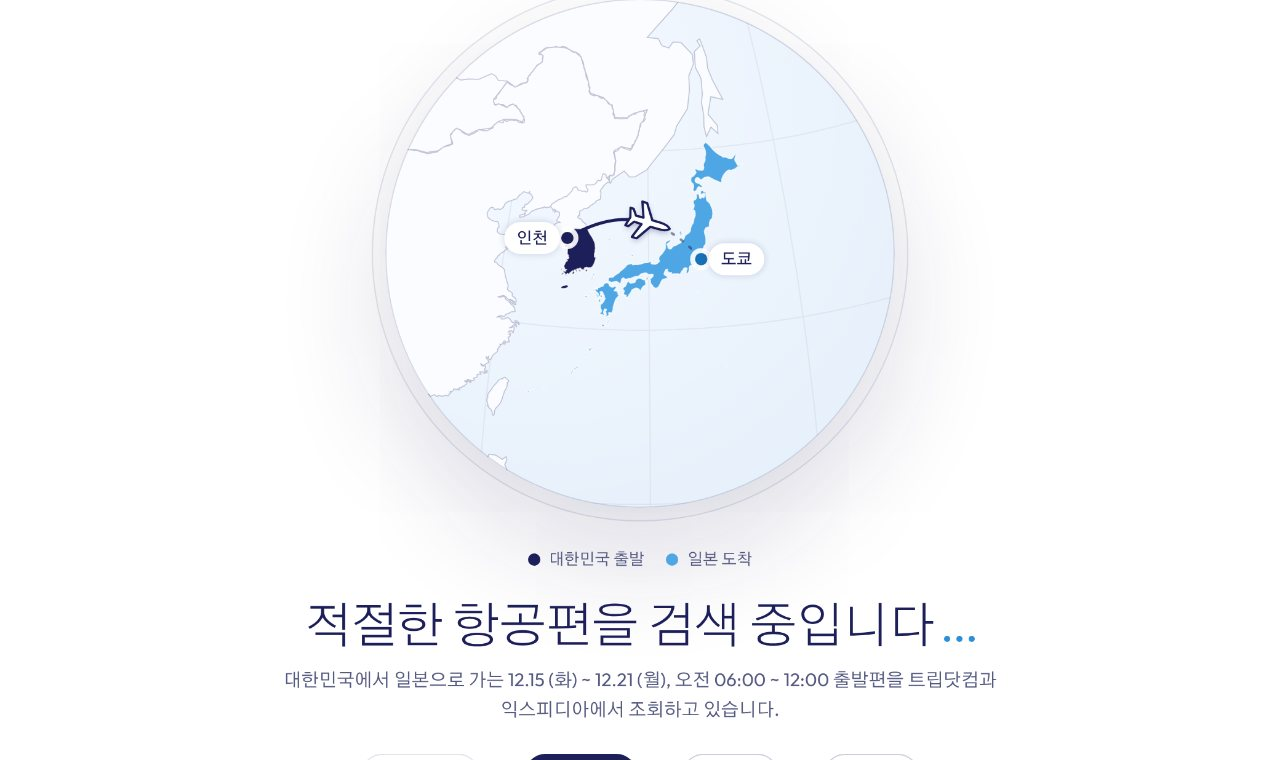
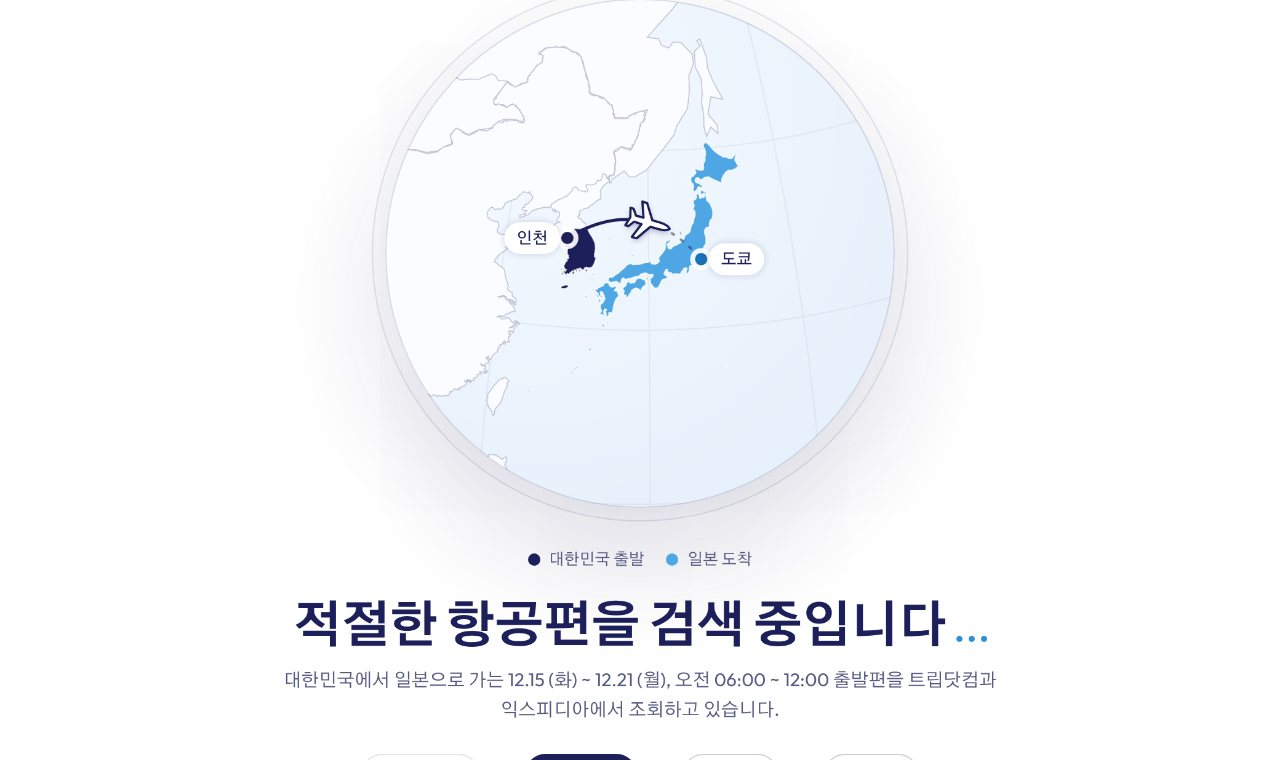
docs: 강조하는 글자를 굵게 변경
- 워드마크 · 제목 · 큰 숫자 · 요금 · 시각처럼 강조하는 글자를 가는 굵기(200~300)에서 굵게(700)로 변경
- 굵기를 400 · 500 · 700 세 가지로 정리하고 강조 굵기를 --fw-bold 토큰 하나로 묶음
- 글꼴 요청에서 쓰지 않는 굵기를 뺌
- 이용 방법 그림, 한눈에 보기 이미지, 디자인 기준 문서 갱신

Changed region(s): [[0.2188, 0.7868, 0.75, 0.8474]]

diff --git a/docs/design/src/screens.css b/docs/design/src/screens.css
@@ -34,10 +34,10 @@
 /* 소개: 큰 워드마크(왼쪽 가운데) + 하늘색 문장(오른쪽 아래) */
 .hero-t { position: absolute; left: 0; top: 0; right: 0; bottom: 0; justify-content: center; gap: 4svh; padding: 12svh 4.2vw 6svh; opacity: var(--pt); transform: translateY(calc((1 - var(--pt)) * 36px)); pointer-events: none; }
 .hero-wm { align-self: flex-start; color: var(--n-900); }
-.wm-b { font-size: clamp(64px, 14.2vw, 232px); line-height: 1; font-weight: 200; letter-spacing: .012em; margin-left: -.05em; white-space: nowrap; }
-.wm-s { font-size: clamp(15px, 1.7vw, 26px); line-height: 1.5; font-weight: 300; letter-spacing: .02em; padding-left: .1em; }
+.wm-b { font-size: clamp(64px, 14.2vw, 232px); line-height: 1; font-weight: var(--fw-bold); letter-spacing: -.01em; margin-left: -.04em; white-space: nowrap; }
+.wm-s { font-size: clamp(15px, 1.7vw, 26px); line-height: 1.5; font-weight: 400; letter-spacing: .02em; padding-left: .1em; }
 .hero-cp { align-self: flex-end; width: min(44vw, 560px); gap: 12px; margin-right: 6vw; }
-.hero-h { font-size: clamp(24px, 2.6vw, 40px); line-height: 1.28; font-weight: 400; letter-spacing: -.01em; color: var(--b-700); }
+.hero-h { font-size: clamp(24px, 2.6vw, 40px); line-height: 1.28; font-weight: var(--fw-bold); letter-spacing: -.01em; color: var(--b-700); }
 .hero-d { font-size: 15px; line-height: 24px; color: var(--b-800); }
 
 /* 숫자: 파란 하늘 위 계단식 줄 */
@@ -50,8 +50,8 @@
 .st-row { flex: 1 1 0; flex-direction: row; align-items: stretch; padding-left: calc(var(--i) * 15.5%); border-top: 1px solid var(--w-50); }
 .st-cell { flex-direction: row; align-items: center; gap: 22px; min-width: 34%; padding: 0 34px 0 30px; border-right: 1px solid var(--w-50); }
 .st-row:not(:first-child) .st-cell { border-left: 1px solid var(--w-50); }
-.st-num { display: flex; flex-direction: row; align-items: baseline; flex: none; font-size: clamp(48px, 7.6vw, 112px); line-height: 1; font-weight: 300; letter-spacing: -.02em; white-space: nowrap; font-variant-numeric: tabular-nums; }
-.st-num .u { font-size: .42em; font-weight: 400; margin-left: .12em; letter-spacing: 0; }
+.st-num { display: flex; flex-direction: row; align-items: baseline; flex: none; font-size: clamp(48px, 7.6vw, 112px); line-height: 1; font-weight: var(--fw-bold); letter-spacing: -.02em; white-space: nowrap; font-variant-numeric: tabular-nums; }
+.st-num .u { font-size: .42em; font-weight: 500; margin-left: .12em; letter-spacing: 0; }
 .st-num .u.pre { margin: 0 .2em 0 0; }
 .st-lb { gap: 2px; }
 .st-lb .l { font-size: 15px; line-height: 22px; font-weight: 500; }
@@ -69,7 +69,7 @@
 .how-img { flex: 1.5 1 0; padding: 16px; justify-content: center; }
 .how-img img { width: 100%; height: auto; aspect-ratio: 1280 / 760; border-radius: 22px; box-shadow: inset 0 0 0 1px var(--line); background: var(--n-100); }
 .how-tx { flex: 1 1 0; justify-content: center; gap: 14px; padding: 40px 48px 40px 24px; }
-.how-tx::before { content: counter(step, decimal-leading-zero); font-size: 76px; line-height: 1; font-weight: 200; color: var(--sky); letter-spacing: -.02em; font-variant-numeric: tabular-nums; }
+.how-tx::before { content: counter(step, decimal-leading-zero); font-size: 76px; line-height: 1; font-weight: var(--fw-bold); color: var(--sky); letter-spacing: -.02em; font-variant-numeric: tabular-nums; }
 .js .how-car .btn.rb { display: flex; }
 .js .how-box { display: grid; gap: 0; border: 1px solid var(--line); border-radius: 36px; background: var(--surface); overflow: hidden; }
 .js .how-sl { grid-area: 1 / 1; border: 0; border-radius: 0; opacity: 0; visibility: hidden; transform: translateX(56px); pointer-events: none; transition: opacity .45s var(--ease), transform .65s var(--ease), visibility 0s .65s; }
@@ -104,7 +104,7 @@
 .svc-pane[data-i="1"] { order: 3; } .svc-d[data-i="1"] { order: 4; }
 .svc-pane[data-i="2"] { order: 5; } .svc-d[data-i="2"] { order: 6; }
 .svc-pane + .svc-pane { margin-top: 56px; }
-.svc-q { font-size: clamp(30px, 4.6vw, 64px); line-height: 1.16; font-weight: 300; letter-spacing: -.02em; text-align: center; text-shadow: 0 2px 30px var(--d-35); padding-bottom: 10px; }
+.svc-q { font-size: clamp(30px, 4.6vw, 64px); line-height: 1.16; font-weight: var(--fw-bold); letter-spacing: -.02em; text-align: center; text-shadow: 0 2px 30px var(--d-35); padding-bottom: 10px; }
 .svc-k { display: none; align-self: center; font-size: 13px; line-height: 20px; }
 .js .svc-k { display: block; }
 .svc-d { width: 100%; max-width: 620px; font-size: 14px; line-height: 22px; text-align: center; }
@@ -113,7 +113,7 @@
 .js .lp-svc .hold { position: sticky; height: 100svh; padding: 0; overflow: hidden; }
 .js .mq { display: flex; position: absolute; z-index: 2; left: 0; right: 0; top: 50%; transform: translateY(-50%); overflow: hidden; opacity: calc(1 - var(--g) * 1.7); }
 .mq-t { flex-direction: row; flex: none; width: max-content; animation: mq 36s linear infinite; }
-.mq-t span { flex: none; padding-right: .6em; font-size: clamp(44px, 8.4vw, 132px); line-height: 1.1; font-weight: 300; letter-spacing: -.01em; color: var(--n-900); white-space: nowrap; }
+.mq-t span { flex: none; padding-right: .6em; font-size: clamp(44px, 8.4vw, 132px); line-height: 1.1; font-weight: var(--fw-bold); letter-spacing: -.01em; color: var(--n-900); white-space: nowrap; }
 @keyframes mq { to { transform: translateX(-33.333%); } }
 /* 흐르는 글자는 마우스를 올리면 멈추고, 오른쪽 아래 단추로도 멈출 수 있다 */
 .js .mq:hover .mq-t, .js .lp-svc.mq-paused .mq-t { animation-play-state: paused; }
@@ -154,13 +154,13 @@
 .lp-ftr { padding: 0 var(--frame) var(--frame); }
 .ftr-win { border-radius: var(--r-lg); background: var(--n-900); color: var(--n-50); padding: 72px 4.2vw 26px; gap: 56px; --focus: var(--n-0); --focus-gap: var(--n-900); }
 .ftr-t { flex-direction: row; align-items: flex-end; justify-content: space-between; gap: 40px; }
-.ftr-h { max-width: 880px; font-size: clamp(26px, 3.5vw, 50px); line-height: 1.3; font-weight: 300; letter-spacing: -.015em; text-wrap: balance; }
+.ftr-h { max-width: 880px; font-size: clamp(26px, 3.5vw, 50px); line-height: 1.3; font-weight: var(--fw-bold); letter-spacing: -.015em; text-wrap: balance; }
 .ftr-t .btn { border-color: transparent; }
 .ftr-g { flex-direction: row; align-items: flex-start; gap: 48px; padding-top: 32px; border-top: 1px solid var(--w-18); }
 .ftr-c { flex: 1 1 0; gap: 8px; font-size: 15px; line-height: 24px; }
 .ftr-c:first-child { flex: 1.6 1 0; }
 .ftr-c .k { font-size: 13px; line-height: 20px; color: var(--b-300); padding-bottom: 4px; }
-.ftr-c .v { font-size: 22px; line-height: 30px; font-weight: 300; }
+.ftr-c .v { font-size: 22px; line-height: 30px; font-weight: var(--fw-bold); }
 .ftr-c .d { font-size: 13px; line-height: 20px; color: var(--w-78); max-width: 420px; }
 .ftr-c a { align-self: flex-start; text-decoration: underline; text-underline-offset: 3px; }
 .ftr-src { flex-direction: row; flex-wrap: wrap; gap: 8px; }
@@ -258,7 +258,7 @@
 .auth-win .lyr { z-index: -1; background-image: var(--scrim-auth), url(assets/bg/hero.jpg); background-position: 50% 40%; }
 .auth-top { flex-direction: row; }
 .auth-btm { gap: 22px; }
-.auth-h { font-size: clamp(26px, 2.7vw, 40px); line-height: 1.28; font-weight: 300; letter-spacing: -.015em; }
+.auth-h { font-size: clamp(26px, 2.7vw, 40px); line-height: 1.28; font-weight: var(--fw-bold); letter-spacing: -.015em; }
 /* 적어 둔 문장 세 개: 사진 위 유리 판. 흰 글자가 읽히도록 남색 막을 깐다 */
 .rc { max-width: 580px; padding: 4px 20px 14px; border-radius: 24px; background: var(--d-28); box-shadow: inset 0 0 0 1px var(--w-34); -webkit-backdrop-filter: blur(16px); backdrop-filter: blur(16px); }
 .rc-k { padding: 12px 0 8px; font-size: 12px; line-height: 18px; }
@@ -288,7 +288,7 @@
 .home-win .lyr { z-index: -1; background-image: var(--scrim-stage), url(assets/bg/flight.jpg); }
 .home-in { width: 100%; max-width: 820px; gap: 30px; }
 .home-hd { align-items: center; gap: 10px; text-align: center; }
-.home-h { font-size: clamp(30px, 4vw, 56px); line-height: 1.18; font-weight: 300; letter-spacing: -.02em; text-shadow: 0 2px 30px var(--d-35); }
+.home-h { font-size: clamp(30px, 4vw, 56px); line-height: 1.18; font-weight: var(--fw-bold); letter-spacing: -.02em; text-shadow: 0 2px 30px var(--d-35); }
 .home-p { font-size: 15px; line-height: 24px; }
 .home-f { gap: 14px; }
 .home-r { gap: 8px; }
@@ -315,7 +315,7 @@ body.pg-srch { min-height: 100svh; }
 body[data-stage="flight"] .srch-t[data-st="flight"], body[data-stage="stay"] .srch-t[data-st="stay"], body[data-stage="done"] .srch-t[data-st="done"] { display: flex; }
 .js .srch-t { display: flex; opacity: 0; visibility: hidden; transform: translateY(14px); transition: opacity .45s var(--ease), transform .6s var(--ease), visibility 0s .6s; }
 .js body[data-stage="flight"] .srch-t[data-st="flight"], .js body[data-stage="stay"] .srch-t[data-st="stay"], .js body[data-stage="done"] .srch-t[data-st="done"] { opacity: 1; visibility: visible; transform: none; transition-delay: 0s; }
-.srch-h { font-size: clamp(26px, 3.2vw, 40px); line-height: 1.25; font-weight: 300; letter-spacing: -.015em; }
+.srch-h { font-size: clamp(26px, 3.2vw, 40px); line-height: 1.25; font-weight: var(--fw-bold); letter-spacing: -.015em; }
 .dots { display: inline-flex; flex-direction: row; gap: 5px; padding-left: 8px; }
 .dots span { display: flex; width: 5px; height: 5px; border-radius: 3px; background: var(--sky); animation: blink 1.2s ease-in-out infinite; }
 .dots span:nth-child(2) { animation-delay: .18s; } .dots span:nth-child(3) { animation-delay: .36s; }
@@ -359,7 +359,7 @@ body[data-stage="flight"] .sp[data-sp="flight"] b, body[data-stage="stay"] .sp[d
 .fo-r { padding-top: 18px; padding-bottom: 8px; cursor: pointer; }
 .fo-k { position: relative; display: flex; width: 20px; flex: none; border-radius: 10px; cursor: pointer; }
 .fo-a { width: 150px; flex: none; gap: 3px; }
-.al { object-fit: contain; align-self: flex-start; margin-bottom: 3px; }
+.al { object-fit: contain; align-self: flex-start; margin-bottom: 4px; }
 .fo-a > .row { flex-wrap: wrap; row-gap: 4px; }
 .fo-a .t-h3 { white-space: nowrap; }
 .fo-l { display: flex; flex: 1 1 0; flex-direction: row; align-items: flex-start; gap: 28px; }
@@ -368,7 +368,7 @@ body[data-stage="flight"] .sp[data-sp="flight"] b, body[data-stage="stay"] .sp[d
 .lg2-k { display: flex; flex-direction: row; align-items: center; gap: 8px; font-size: 12px; line-height: 18px; color: var(--tx-2); }
 .lg2-t { flex-direction: row; align-items: center; gap: 10px; }
 .lg2-t .e { flex: none; gap: 0; }
-.lg2-t .e b { font-size: 22px; line-height: 28px; font-weight: 400; letter-spacing: -.01em; }
+.lg2-t .e b { font-size: 22px; line-height: 28px; font-weight: var(--fw-bold); letter-spacing: -.01em; }
 .lg2-t .e span { font-size: 12px; line-height: 16px; color: var(--tx-3); }
 .lg2-t .m { flex: 1 1 0; flex-direction: row; align-items: center; gap: 8px; }
 .lg2-t .m i { display: flex; flex: 1 1 0; height: 1px; background: var(--line-strong); }
@@ -405,7 +405,7 @@ body[data-stage="flight"] .sp[data-sp="flight"] b, body[data-stage="stay"] .sp[d
 .sl .k { width: 46px; flex: none; font-size: 13px; line-height: 20px; color: var(--tx-3); }
 .ver { flex-direction: row; align-items: flex-start; gap: 10px; padding: 10px 0; border-top: 1px solid var(--line); font-size: 13px; line-height: 20px; }
 .ver.first { border-top: 0; padding-top: 0; }
-.ver .v { width: 22px; flex: none; font-weight: 600; }
+.ver .v { width: 22px; flex: none; font-weight: var(--fw-bold); }
 
 /* ───────── 09 숙소 위치와 추천 장소 ───────── */
 .map { position: relative; border-radius: 18px; overflow: hidden; box-shadow: inset 0 0 0 1px var(--line); }
@@ -415,7 +415,7 @@ body[data-stage="flight"] .sp[data-sp="flight"] b, body[data-stage="stay"] .sp[d
 .pin {
   position: absolute; width: 26px; height: 26px; align-items: center; justify-content: center; transform: translate(-50%, -50%);
   border: 2px solid var(--n-900); border-radius: 13px; background: var(--n-0);
-  font-size: 12px; line-height: 16px; font-weight: 600; color: var(--n-900);
+  font-size: 12px; line-height: 16px; font-weight: var(--fw-bold); color: var(--n-900);
 }
 .pin.h { width: 38px; height: 38px; border: 2px solid var(--n-0); border-radius: 19px; background: var(--brand); color: var(--on-photo); }
 .pin-l {
@@ -428,9 +428,9 @@ body[data-stage="flight"] .sp[data-sp="flight"] b, body[data-stage="stay"] .sp[d
 .map-attr { position: absolute; display: flex; right: 0; bottom: 0; padding: 2px 10px 2px 8px; border-radius: 8px 0 0 0; background: var(--w-86); font-size: 11px; line-height: 16px; color: var(--tx-2); }
 .lgd { flex-direction: row; flex-wrap: wrap; align-items: center; gap: 6px 20px; }
 .lg { flex-direction: row; align-items: center; gap: 6px; font-size: 12px; line-height: 18px; color: var(--tx-2); }
-.lg-n { display: flex; align-items: center; justify-content: center; flex: none; height: 20px; padding: 0 7px; border: 1px solid var(--n-700); border-radius: 10px; background: var(--n-0); font-size: 11px; line-height: 16px; font-weight: 600; color: var(--n-900); }
+.lg-n { display: flex; align-items: center; justify-content: center; flex: none; height: 20px; padding: 0 7px; border: 1px solid var(--n-700); border-radius: 10px; background: var(--n-0); font-size: 11px; line-height: 16px; font-weight: var(--fw-bold); color: var(--n-900); }
 .lg-h { display: flex; align-items: center; justify-content: center; flex: none; width: 20px; height: 20px; border-radius: 10px; background: var(--brand); color: var(--on-photo); }
-.pno { display: flex; width: 20px; height: 20px; flex: none; align-items: center; justify-content: center; border: 1px solid var(--n-700); border-radius: 10px; font-size: 11px; line-height: 16px; font-weight: 600; color: var(--n-900); }
+.pno { display: flex; width: 20px; height: 20px; flex: none; align-items: center; justify-content: center; border: 1px solid var(--n-700); border-radius: 10px; font-size: 11px; line-height: 16px; font-weight: var(--fw-bold); color: var(--n-900); }
 /* 장소 · 활동 줄: 사진 | 설명 | 웹 검색으로 찾은 후기(썸네일 + 사이트) */
 .grp-h { flex-direction: row; align-items: center; gap: 10px; min-height: 40px; padding: 0 var(--pad); border-top: 1px solid var(--line); background: var(--surface-sub); }
 .grp-h.first { border-top: 0; }

diff --git a/docs/design/src/tokens.css b/docs/design/src/tokens.css
@@ -1,6 +1,6 @@
 /* Trupass 디자인 토큰 (3차: 하늘 · 흰색 · 인디고)
    - 색: 흰 바탕에 깊은 인디고 글자, 강조는 하늘색 한 가지. 사진과 하늘이 색을 맡는다. 옅은 면과 선은 누런 기 없이 인디고 쪽 중립 톤.
-   - 글꼴: 라틴 · 숫자는 Outfit, 한글은 Gothic A1. 큰 글자는 가늘게(300), 작은 글자는 보통 굵기.
+   - 글꼴: 라틴 · 숫자는 Outfit, 한글은 Gothic A1. 워드마크 · 제목 · 큰 숫자 · 요금처럼 강조하는 글자는 굵게(700), 본문은 보통 굵기(400).
    - 모서리: 넉넉하게. 버튼과 표식은 알약형, 입력 14, 카드 24, 창(사진을 담는 틀) 28.
    - 레이아웃: 화면의 뼈대는 flex(row/column) + gap + padding. 스크롤 연출을 위한 겹침(하늘 · 구름 · 지구본)만 절대 위치를 쓴다.
    - 색 값은 전부 이 블록에 둔다. 다른 파일에서는 토큰만 쓴다. */
@@ -60,6 +60,7 @@
   --focus-gap: var(--n-0);
 
   --font: "Outfit", "Gothic A1", "Apple SD Gothic Neo", "Malgun Gothic", system-ui, sans-serif;
+  --fw-bold: 700;                 /* 강조하는 글자: 워드마크 · 제목 · 큰 숫자 · 요금 · 시각 · 이름. 굵기는 400(본문) · 500(이름표 · 버튼) · 700 세 가지만 쓴다 */
   --r-xs: 6px; --r-sm: 14px; --r-md: 24px; --r-lg: 28px; --r-pill: 999px;
   --e1: 0 6px 24px var(--k-08);
   --e2: 0 24px 64px var(--k-18);
@@ -103,7 +104,7 @@ canvas { display: block; }
 h1, h2, h3, p { font-weight: 400; font-size: inherit; }
 h1, h2, h3 { text-wrap: balance; }
 p { text-wrap: pretty; }
-b, strong { font-weight: 600; }
+b, strong { font-weight: var(--fw-bold); }
 table { border-collapse: collapse; border-spacing: 0; width: 100%; }
 th { font-weight: 400; text-align: left; }
 summary { list-style: none; cursor: pointer; }
@@ -144,16 +145,16 @@ summary::-webkit-details-marker { display: none; }
 .g0 { gap: 0; } .g2 { gap: 2px; } .g4 { gap: 4px; } .g6 { gap: 6px; } .g8 { gap: 8px; } .g10 { gap: 10px; } .g12 { gap: 12px; } .g16 { gap: 16px; }
 .g20 { gap: 20px; } .g24 { gap: 24px; } .g32 { gap: 32px; } .g40 { gap: 40px; } .g48 { gap: 48px; }
 
-/* type scale: 큰 글자는 가늘게 */
-.t-display { font-size: 56px; line-height: 66px; font-weight: 300; letter-spacing: -.02em; }
-.t-h1 { font-size: 34px; line-height: 44px; font-weight: 300; letter-spacing: -.015em; }
-.t-h2 { font-size: 22px; line-height: 32px; font-weight: 500; letter-spacing: -.01em; }
-.t-h3 { font-size: 17px; line-height: 26px; font-weight: 600; }
+/* type scale: 제목은 굵게, 본문은 보통 굵기 */
+.t-display { font-size: 56px; line-height: 66px; font-weight: var(--fw-bold); letter-spacing: -.025em; }
+.t-h1 { font-size: 34px; line-height: 44px; font-weight: var(--fw-bold); letter-spacing: -.02em; }
+.t-h2 { font-size: 22px; line-height: 32px; font-weight: var(--fw-bold); letter-spacing: -.01em; }
+.t-h3 { font-size: 17px; line-height: 26px; font-weight: var(--fw-bold); }
 .t-lg { font-size: 17px; line-height: 28px; }
 .t-md { font-size: 15px; line-height: 24px; }
 .t-sm { font-size: 13px; line-height: 20px; }
 .t-xs { font-size: 12px; line-height: 18px; }
-.w3 { font-weight: 300; } .w4 { font-weight: 400; } .w5 { font-weight: 500; } .w6 { font-weight: 600; }
+.w4 { font-weight: 400; } .w5 { font-weight: 500; } .w6 { font-weight: var(--fw-bold); }
 .c1 { color: var(--tx); } .c2 { color: var(--tx-2); } .c3 { color: var(--tx-3); } .cb { color: var(--sky-ink); }
 .cok { color: var(--ok); } .cwarn { color: var(--warn); } .cbad { color: var(--bad); } .cw { color: var(--on-photo); }
 .num { font-variant-numeric: tabular-nums; }

diff --git a/docs/design/src/components.css b/docs/design/src/components.css
@@ -8,7 +8,7 @@
 
 /* 로고: 승인 체크 마크. 바탕과 획의 색은 --mk-t · --mk-f 로 정한다 */
 .logo { flex-direction: row; align-items: center; gap: 10px; flex: none; }
-.logo .wm { font-size: 21px; line-height: 26px; font-weight: 500; letter-spacing: .01em; color: var(--tx); }
+.logo .wm { font-size: 21px; line-height: 26px; font-weight: var(--fw-bold); letter-spacing: 0; color: var(--tx); }
 .logo.inv .wm { color: var(--on-photo); }
 .mark { --mk-t: var(--brand); --mk-f: var(--n-0); }
 .mark.inv, .logo.inv .mark { --mk-t: var(--n-0); --mk-f: var(--brand); }
@@ -204,7 +204,7 @@ html.leaving .veil::after { animation: veil-btm-in .62s var(--ease) both; }
 }
 .step.done { color: var(--tx-2); }
 .step.done .no { background: var(--brand); border-color: var(--brand); color: var(--on-photo); }
-.step.on { color: var(--tx); font-weight: 600; }
+.step.on { color: var(--tx); font-weight: var(--fw-bold); }
 .step.on .no { border-color: var(--sky-ink); background: var(--b-50); color: var(--b-700); }
 .steps .bar { width: 28px; height: 1px; background: var(--line-strong); flex: none; }
 .steps .bar.done { background: var(--brand); }
@@ -217,7 +217,7 @@ html.leaving .veil::after { animation: veil-btm-in .62s var(--ease) both; }
 .hdr .nav a { display: flex; align-items: center; height: 40px; padding: 0 16px; border-radius: var(--r-pill); font-size: 15px; line-height: 22px; color: var(--tx-2); white-space: nowrap; }
 .hdr .nav a.on { color: var(--tx); font-weight: 500; background: var(--n-0); box-shadow: inset 0 0 0 1px var(--line); }
 .hdr .me { display: flex; flex-direction: row; align-items: center; gap: 8px; height: 44px; padding: 0 12px 0 6px; border-radius: var(--r-pill); background: var(--n-0); box-shadow: inset 0 0 0 1px var(--line); font-size: 15px; }
-.av { width: 32px; height: 32px; flex: none; align-items: center; justify-content: center; border-radius: 16px; background: var(--b-100); color: var(--b-800); font-size: 13px; line-height: 16px; font-weight: 600; }
+.av { width: 32px; height: 32px; flex: none; align-items: center; justify-content: center; border-radius: 16px; background: var(--b-100); color: var(--b-800); font-size: 13px; line-height: 16px; font-weight: var(--fw-bold); }
 .ftr {
   flex-direction: row; align-items: center; gap: 20px; flex: none; min-height: 64px; padding: 16px max(var(--gut), calc((100% - var(--page)) / 2));
   border-top: 1px solid var(--line); font-size: 12px; line-height: 18px; color: var(--tx-3);

diff --git a/docs/design/src/js/globe.js b/docs/design/src/js/globe.js
@@ -131,7 +131,7 @@
       ctx.fillRect(-w / 2 - 1.5 * s, y - 2.4 * s, w + 3 * s, 2.4 * s);
       var k = eout(cap), bw = 11 * s * k;
       ctx.beginPath(); ctx.roundRect ? ctx.roundRect(-bw / 2, y - 2.4 * s - 12.5 * s * k, bw, 11 * s * k, 3 * s) : ctx.rect(-bw / 2, y - 14.9 * s, bw, 11 * s); ctx.fill();
-      ctx.fillStyle = '#fff'; ctx.font = '600 ' + (8.5 * s * k).toFixed(1) + 'px Outfit, sans-serif'; ctx.textAlign = 'center'; ctx.textBaseline = 'middle';
+      ctx.fillStyle = '#fff'; ctx.font = '700 ' + (8.5 * s * k).toFixed(1) + 'px Outfit, sans-serif'; ctx.textAlign = 'center'; ctx.textBaseline = 'middle';
       ctx.fillText('H', 0, y - 2.4 * s - 6.8 * s * k);
       ctx.globalAlpha = 1;
     }

diff --git a/docs/design/README.md b/docs/design/README.md
@@ -44,6 +44,7 @@
 | 코드 정리 | 색 값은 전부 `tokens.css`의 토큰 블록에 있다(다른 파일에는 색 리터럴이 없다). 높이는 `svh`를 쓰고, 가로 넘침은 `overflow-x: clip`으로 막았다. 버튼에는 누름 · 꺼짐 상태가 있다 |
 | 꾸밈 줄이기 | 괄호 눈썹글, 메타 줄의 가운뎃점, 상태 점(진행 중만 남김), 랜딩의 영문 장식 문구(자간을 벌린 대문자, `(Scroll)`, `01 / 05`, `01 — Flights`), 버튼 끝의 화살표 동전, 푸터 제목의 색 강조 구절을 뺐다. 흐르는 글자는 남기고 멈춤 단추를 달았다 |
 | 앱 화면 머리부 | 제목을 56px에서 34px(앱 크기)로 줄이고 제목 옆에 진행 단계를 붙였다. 결과 화면의 첫 화면에 항공권 세 건이 거의 다 들어온다 |
+| 강조하는 글자 | 랜딩의 TRUPASS 워드마크처럼 강조하거나 중요한 글자를 굵게(700) 바꿨다: 워드마크, 화면과 구간의 제목, 큰 숫자, 요금과 합계, 출발 · 도착 시각, 항공사와 숙소 이름. 굵기는 400 · 500 · 700 세 가지만 쓰고, 강조 굵기는 `--fw-bold` 토큰 한 곳에서 바꾼다 |
 | 가입 | 로그인과 가입을 `[Google 계정으로 계속하기]` 하나로 합쳤다. 회원 정보 입력은 실제 입력 칸으로 바꾸고 관심사 최대 3개, 필수 약관 확인이 실제로 동작한다 |
 | 요청 패널 | 문장 세 개와 적용한 조건을 3행 표로 짝지었다. 넓혀 잡은 날짜와 함께 찾은 공항에는 표식을 단다 |
 | 항공권 | 카드 세 장을 한 표로 바꿨다. 상자 속 상자와 이중 테두리를 없애고, 고른 줄은 옅은 하늘색 면으로만 표시한다. 숙소는 상자 없이 사진과 글로 놓고 고른 곳의 사진에 테두리를 두른다 |
@@ -80,7 +81,7 @@
 | 검색 중에 지구본, 한국(강조)에서 도착 국가(강조)로 비행기, "적절한 항공편을 검색중입니다" | canvas 지구본(d3-geo 정사영). 두 나라 쪽으로 돌아 들어온 뒤 비행기가 호를 그리며 날기를 되풀이한다 | 06 |
 | 숙소 검색 단계에서는 그 나라 영토 위에 호텔이 지어지는 반복 애니메이션 | 도착 국가를 가까이 당기고 다섯 도시에 호텔이 한 층씩 올라가 간판이 붙었다 사라지기를 되풀이한다. 끝나면 결과로 넘어간다 | 06 |
 | 결과에서 옵션 3가지가 페이드로 하나씩, 옵션별 토글로 항공권별 추천 숙소 | 항공권 줄이 0.32초 간격으로 떠오른다. 줄을 펼치면 숙소 3곳이 같은 방식으로 나오고, 고르면 합계가 바로 바뀐다 | 07 · 08 |
-| 이전 지적: 오른쪽 이용 절차 · 검색 출처 상자를 빼고 검색을 가운데로, 가입 화면 오른쪽 상자 2개 제거, 딱딱한 인상 | 이용 절차는 이용 방법 상자로, 검색 출처는 푸터로 옮겼다. 각진 패널과 표를 둥근 카드 · 알약 버튼 · 가는 큰 글자로 바꿨다 | 전체 |
+| 이전 지적: 오른쪽 이용 절차 · 검색 출처 상자를 빼고 검색을 가운데로, 가입 화면 오른쪽 상자 2개 제거, 딱딱한 인상 | 이용 절차는 이용 방법 상자로, 검색 출처는 푸터로 옮겼다. 각진 패널과 표를 둥근 카드 · 알약 버튼으로 바꿨다(큰 글자는 3차에서 가늘게 잡았다가 4차에서 굵게 바꿨다) | 전체 |
 
 ### 눌러 볼 수 있는 범위
 
@@ -105,7 +106,7 @@
 - 색: 흰 바탕(`#ffffff`)에 깊은 인디고 글자(`#1c1f5a`), 강조는 하늘색(`#2b8fd9`) 한 가지. 옅은 면과 선은 누런 기 없이 인디고 쪽 중립 톤이다. 색은 사진과 하늘이 맡는다. 상태(완료 · 주의 · 실패)는 글자 색으로 구분하고, 점은 진행 중인 것에만 붙인다. 색 값은 전부 `src/tokens.css`의 토큰 블록에 있다.
 - 대비: 본문 `--tx` 14.6 : 1, 보조 `--tx-2` 6.6 : 1, 설명 `--tx-3` 5.4 : 1(흰 바탕 기준). 입력 칸 테두리 `--edge`는 3 : 1 이상이다.
 - 초점 표시: 2px 남색 테두리 + 바깥 흰 띠. 전환 없이 바로 나타난다.
-- 글꼴: 라틴 · 숫자 Outfit, 한글 Gothic A1. 큰 글자는 가늘게(300), 본문은 400. Display 56/66, H1 34/44, 본문 15/24.
+- 글꼴: 라틴 · 숫자 Outfit, 한글 Gothic A1. 워드마크 · 제목 · 큰 숫자 · 요금 · 시각처럼 강조하는 글자는 굵게(700, `--fw-bold`), 이름표와 버튼은 500, 본문은 400. 굵기는 이 세 가지만 쓴다. Display 56/66, H1 34/44, 본문 15/24.
 - 모서리: 버튼과 표식은 알약형, 입력 14, 카드 24, 사진을 담는 창 28. 창은 화면 가장자리에서 16(태블릿 12 · 모바일 8) 띄운다.
 - 반응형: 데스크톱 ≥1200 / 태블릿 768–1199 / 모바일 ≤767.
   - 데스크톱은 본문 + 오른쪽 칸(선택한 조합 · 결제 금액) 2단, 태블릿 · 모바일은 1단으로 쌓고 다음 단계 버튼을 아래 고정 바로 옮긴다.
